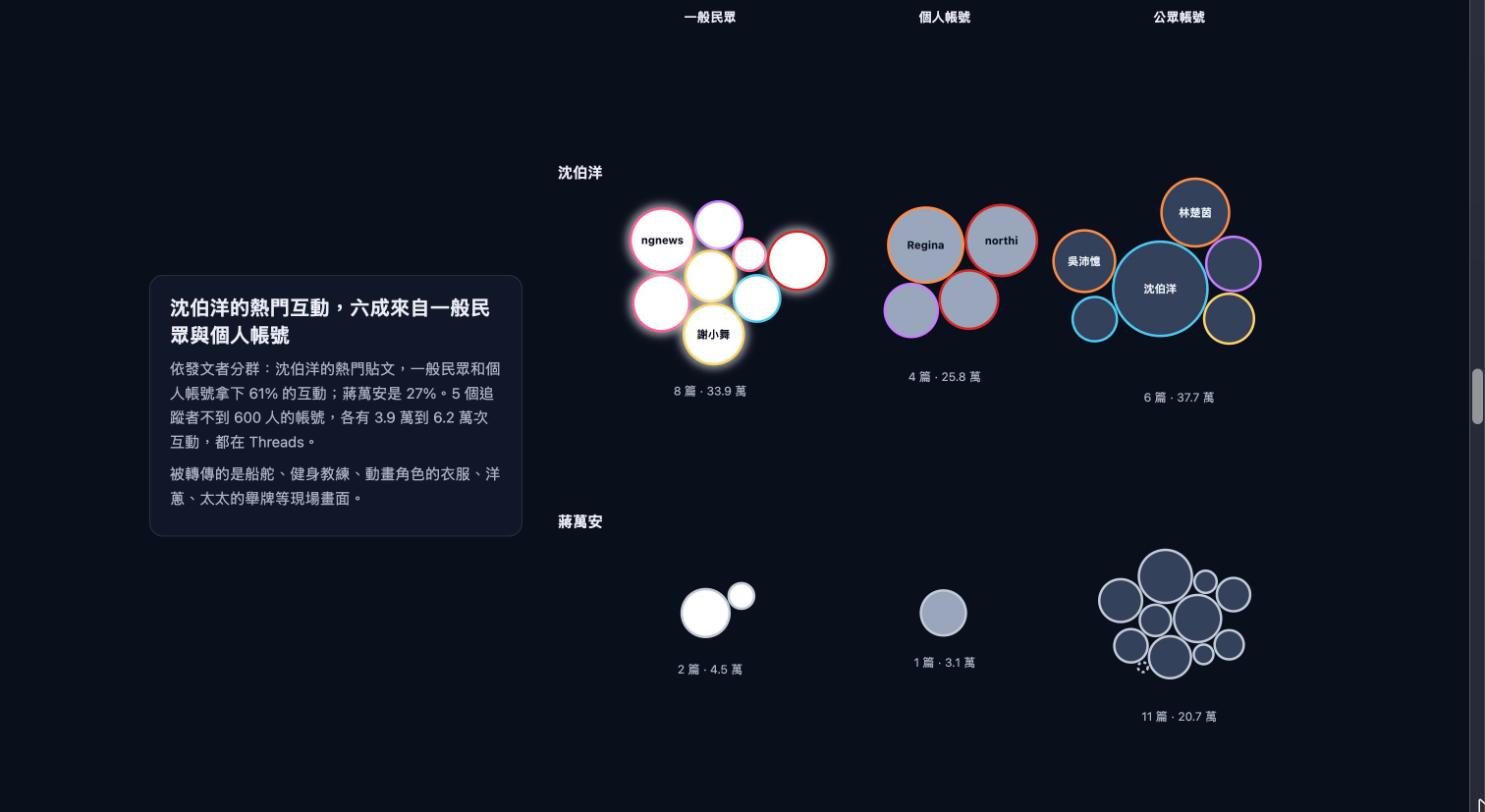
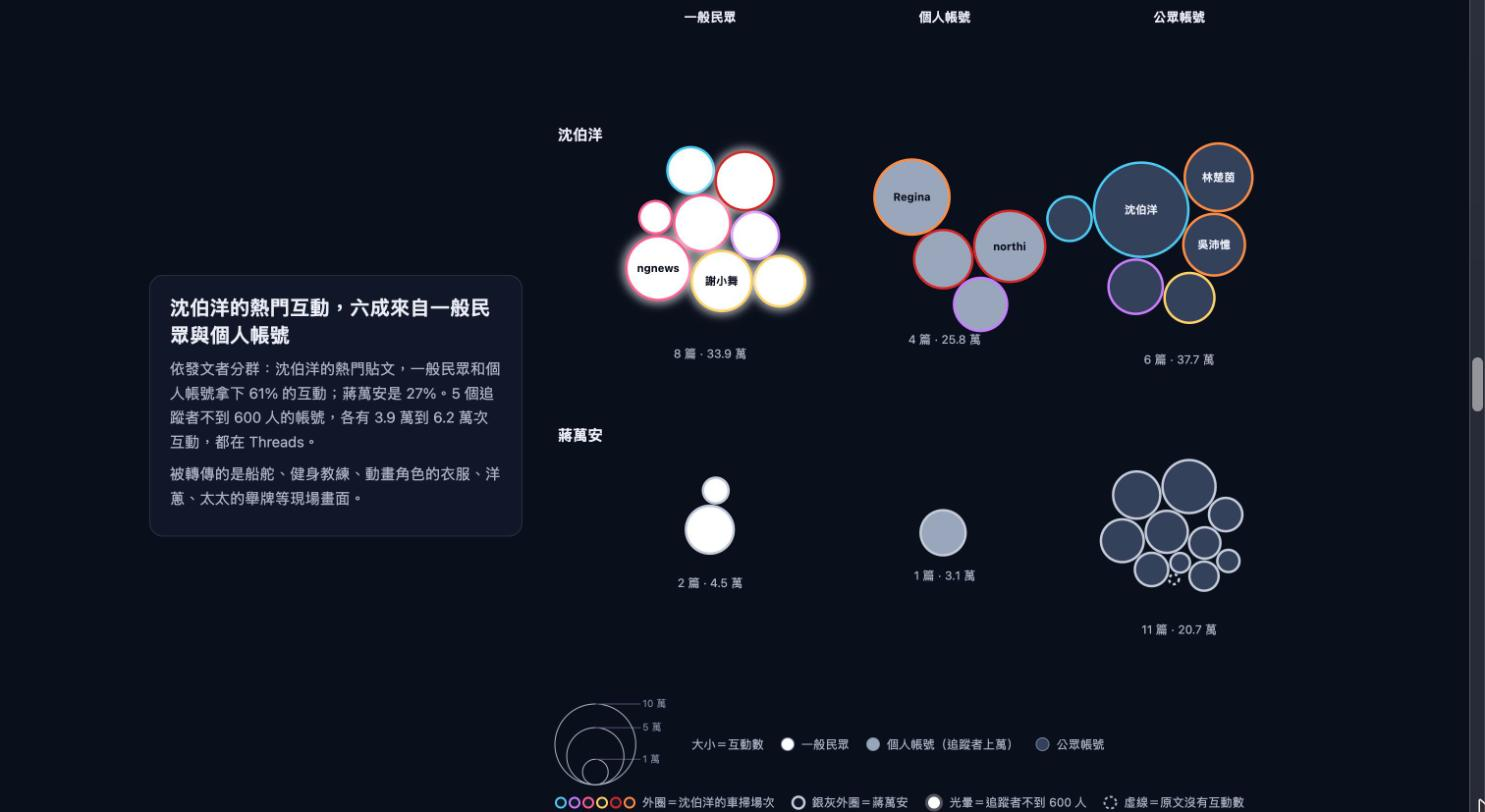
每張圖補上圖例
- 圖 1～5 在圖上方加圖例：顏色、大小、亮度、空心／實心、參考線各代表什麼
- 泡泡圖圖例用同一個比例尺畫 1 萬／5 萬／10 萬互動的大小基準
- 敘事地圖（第 1、7、8 段）與敘事泡泡圖在圖下方加圖例
- README 補說明，截圖 02～04 換成新版

diff --git a/js/common.js b/js/common.js
@@ -123,6 +123,54 @@
     }));
   }
 
+  // ---------- 圖例 ----------
+  // 每張圖都附圖例。items：{ type, color, label }；type 決定前面小圖示的畫法。
+  const SURFACE = '#111829';
+  const REF = '#77829a';
+  function swatchSvg(it) {
+    const c = it.color || '#ffffff';
+    const svg = (wd, ht, body) => `<svg width="${wd}" height="${ht}" viewBox="0 0 ${wd} ${ht}" aria-hidden="true">${body}</svg>`;
+    switch (it.type) {
+      case 'dot': return svg(14, 14, `<circle cx="7" cy="7" r="5" fill="${c}"/>`);
+      case 'hollow': return svg(14, 14, `<circle cx="7" cy="7" r="4.5" fill="${SURFACE}" stroke="${c}" stroke-width="2"/>`);
+      case 'fill': return svg(16, 16, `<circle cx="8" cy="8" r="6.5" fill="${c}" stroke="#77829a" stroke-width="1"/>`);
+      case 'ring': return svg(16, 16, `<circle cx="8" cy="8" r="6" fill="${SURFACE}" stroke="${c}" stroke-width="2.5"/>`);
+      case 'dashed-ring': return svg(16, 16, `<circle cx="8" cy="8" r="6" fill="none" stroke="${c}" stroke-width="2" stroke-dasharray="3 2.5"/>`);
+      case 'glow': return svg(20, 20, `<circle cx="10" cy="10" r="9" fill="#ffffff" opacity="0.28"/><circle cx="10" cy="10" r="6" fill="#ffffff"/>`);
+      case 'silver-dot': return svg(20, 20, `<circle cx="10" cy="10" r="9" fill="${c}" opacity="0.35"/><circle cx="10" cy="10" r="4.5" fill="${c}"/>`);
+      case 'line': return svg(22, 10, `<line x1="2" x2="20" y1="5" y2="5" stroke="${c}" stroke-width="3" stroke-linecap="round"/>`);
+      case 'ref': return svg(22, 10, `<line x1="1" x2="21" y1="5" y2="5" stroke="${REF}" stroke-width="1.5"/>`);
+      case 'vref': return svg(10, 16, `<line x1="5" x2="5" y1="1" y2="15" stroke="${REF}" stroke-width="1.5"/>`);
+      case 'outline': return svg(16, 16, `<rect x="2" y="2" width="12" height="12" rx="2" fill="none" stroke="#ffffff" stroke-width="2"/>`);
+      case 'dots': return svg(it.colors.length * 12, 12, it.colors.map((k, i) => `<circle cx="${i * 12 + 6}" cy="6" r="4.5" fill="${k}"/>`).join(''));
+      case 'rings': return svg(it.colors.length * 14, 14, it.colors.map((k, i) => `<circle cx="${i * 14 + 7}" cy="7" r="5" fill="${SURFACE}" stroke="${k}" stroke-width="2"/>`).join(''));
+      case 'gradient': return svg(40, 10, `<defs><linearGradient id="lg-grad-${it.id}"><stop offset="0" stop-color="${c}" stop-opacity="0.1"/><stop offset="1" stop-color="${c}" stop-opacity="0.95"/></linearGradient></defs><rect x="0" y="1" width="40" height="8" rx="2" fill="url(#lg-grad-${it.id})"/>`);
+      case 'swatches': return svg(it.colors.length * 12, 12, it.colors.map((k, i) => `<rect x="${i * 12}" y="1" width="10" height="10" rx="2" fill="${k}"/>`).join(''));
+      case 'lines': return svg(it.colors.length * 12 + 4, 10, it.colors.map((k, i) => `<line x1="${i * 12 + 2}" x2="${i * 12 + 12}" y1="5" y2="5" stroke="${k}" stroke-width="3" stroke-linecap="round"/>`).join(''));
+      default: return '';
+    }
+  }
+  function legend(target, items, { place = 'before', className = '' } = {}) {
+    const box = document.createElement('div');
+    box.className = `chart-legend ${className}`.trim();
+    fillLegend(box, items);
+    if (place === 'before') target.before(box);
+    else if (place === 'append') target.append(box);
+    else target.after(box);
+    return box;
+  }
+  function fillLegend(box, items) {
+    box.replaceChildren();
+    for (const it of items) {
+      const span = document.createElement('span');
+      span.className = 'lg-item';
+      if (it.html) span.innerHTML = it.html;
+      else span.innerHTML = swatchSvg(it);
+      span.append(document.createTextNode(it.label));
+      box.append(span);
+    }
+  }
+
   // ---------- 觸控判斷 ----------
   // 手指碰到時若馬上換掉畫面上的內容（提示框、預覽），手機瀏覽器會把這一下當成「滑過」而不觸發點擊，
   // 所以最近一次操作是觸控或觸控筆時，不顯示提示框、不做滑過預覽，點一下直接選取。
@@ -222,7 +270,7 @@
     AUTHOR_TYPES, authorTypeOf, authorInfo, ringColor,
     OFFSETS, decay, decayMax, pctAt,
     MAX_SHEN, MAX_CHIANG, shenGlow, shenGlowAll, chiangGlow, chiangGlowAll,
-    tipContent, placeTip, placeTipAt, hideTip, activateOnKey,
+    tipContent, placeTip, placeTipAt, hideTip, activateOnKey, legend, fillLegend, swatchSvg,
     state, active, registerView, setSession, setHover, prefersReducedMotion,
   };
 })();

diff --git a/js/bubbles.js b/js/bubbles.js
@@ -12,11 +12,20 @@
   H.createBubbles = function createBubbles(el, options) {
     const id = `bub${uid++}`;
     const o = {
-      grouping: 'map', height: null, name: 'bubbles', onPick: null, headline: null, interactive: true, linked: true,
+      grouping: 'map', height: null, name: 'bubbles', onPick: null, headline: null, interactive: true, linked: true, legend: null,
       ...options,
     };
     const wrap = d3.select(el).classed('bubbles-wrap', true);
     const svg = wrap.append('svg').attr('class', 'bubbles-svg').attr('role', 'img');
+    // 圖例：explore 放在圖上方；敘事舞台放在圖下方，並從可用高度扣掉圖例的高度。
+    let legendBox = null;
+    if (o.legend) {
+      legendBox = document.createElement('div');
+      legendBox.className = 'chart-legend';
+      if (o.legend === 'before') el.insertBefore(legendBox, svg.node());
+      else el.append(legendBox);
+    }
+    let rScale = null;
     const defs = svg.append('defs');
     defs.append('filter').attr('id', `${id}-halo`).attr('x', '-100%').attr('y', '-100%')
       .attr('width', '300%').attr('height', '300%')
@@ -91,13 +100,14 @@
 
     function size() {
       w = el.clientWidth;
-      h = o.height ? o.height(w) : el.clientHeight;
+      h = o.height ? o.height(w) : el.clientHeight - (legendBox && o.legend !== 'before' ? legendBox.offsetHeight + 4 : 0);
     }
 
     function radii() {
       const narrow = w < 600;
       const maxR = o.grouping === 'map' ? (narrow ? 22 : 34) : (narrow ? 26 : Math.min(48, w / 16));
       const scale = d3.scaleSqrt().domain([0, 136000]).range([0, maxR]);
+      rScale = scale;
       for (const d of nodes) d.r = d.post.interactions == null ? 5 : Math.max(5, scale(d.post.interactions));
     }
 
@@ -194,16 +204,47 @@
       o.headline.textContent = text;
     }
 
+    function drawLegend() {
+      if (!legendBox) return;
+      // 大小用和泡泡同一個比例尺，畫 1 萬、5 萬、10 萬次互動三個同心圓。
+      const vals = [10000, 50000, 100000];
+      const rs = vals.map((v) => rScale(v));
+      const big = rs[2];
+      const width = big * 2 + 52;
+      const height = big * 2 + 4;
+      const circles = vals.map((v, i) => {
+        const cy = height - 2 - rs[i];
+        const ty = height - 2 - rs[i] * 2;
+        return `<circle cx="${big + 1}" cy="${cy}" r="${rs[i]}" fill="none" stroke="#aab3c5" stroke-width="1"/>`
+          + `<line x1="${big + 1}" x2="${big * 2 + 6}" y1="${ty}" y2="${ty}" stroke="#4a5470" stroke-width="1"/>`
+          + `<text x="${big * 2 + 8}" y="${ty + 3}">${v / 10000} 萬</text>`;
+      }).join('');
+      const sizeSvg = `<svg class="lg-size" width="${width}" height="${height}" viewBox="0 0 ${width} ${height}" aria-hidden="true">${circles}</svg>`;
+      H.fillLegend(legendBox, [
+        { html: sizeSvg, label: '大小＝互動數' },
+        { type: 'fill', color: H.AUTHOR_TYPES[0].fill, label: '一般民眾' },
+        { type: 'fill', color: H.AUTHOR_TYPES[1].fill, label: '個人帳號（追蹤者上萬）' },
+        { type: 'fill', color: H.AUTHOR_TYPES[2].fill, label: '公眾帳號' },
+        { type: 'rings', colors: H.sessions.map((s) => s.color), label: '外圈＝沈伯洋的車掃場次' },
+        { type: 'ring', color: H.CHIANG_COLOR, label: '銀灰外圈＝蔣萬安' },
+        { type: 'glow', label: '光暈＝追蹤者不到 600 人' },
+        { type: 'dashed-ring', color: '#aab3c5', label: '虛線＝原文沒有互動數' },
+      ]);
+    }
+
     function ticked() {
       nodeSel.attr('transform', (d) => `translate(${d.x},${d.y})`);
     }
 
     function render({ burst = false } = {}) {
       size();
-      if (w < 200 || h < 200) return;
+      if (w < 200) return;
+      radii();
+      drawLegend();
+      size(); // 圖例畫好後高度才確定，敘事舞台要重新扣掉
+      if (h < 200) return;
       svg.attr('viewBox', `0 0 ${w} ${h}`).attr('width', w).attr('height', h)
         .attr('aria-label', '熱門貼文泡泡圖，每篇貼文一顆泡泡，大小代表互動數。');
-      radii();
       layout();
       headline();
       nodeSel.select('.bubble-halo').attr('r', (d) => d.r + 5);

diff --git a/js/story.js b/js/story.js
@@ -9,8 +9,21 @@
     name: 'story-map', interactive: false, controls: true, hud: true, allLit: true,
   });
   const bubbles = H.createBubbles(layerEl('bubbles'), {
-    name: 'story-bubbles', grouping: 'map', linked: false, interactive: true,
+    name: 'story-bubbles', grouping: 'map', linked: false, interactive: true, legend: 'after',
   });
+
+  // 地圖的圖例：放在地圖下方（播放時那裡是時間軸，所以播放段落改看左上角的亮度條）。
+  const sessionColors = H.sessions.map((s) => s.color);
+  const mapLegend = H.legend(layerEl('map'), [], { place: 'append', className: 'stage-legend' });
+  const LEGEND_SHEN = [
+    { type: 'swatches', colors: sessionColors, label: '顏色＝6 場車掃（每場兩區）' },
+    { type: 'gradient', id: 'story', color: '#ff8c42', label: `越亮＝那場車掃當天討論越多（最亮：11/15 士林×北投 ${H.fmt(H.MAX_SHEN)} 筆）` },
+  ];
+  const LEGEND_CHIANG = { type: 'silver-dot', color: H.CHIANG_COLOR, label: '銀灰光點＝蔣萬安掃街，越大越亮＝當天或隔天討論越多' };
+  function setMapLegend(items) {
+    H.fillLegend(mapLegend, items);
+    mapLegend.hidden = !items.length;
+  }
 
   // ---------- 對齊圖（敘事版） ----------
   const decayEl = layerEl('decay');
@@ -128,14 +141,14 @@
 
   // ---------- 段落設定 ----------
   const STEPS = [
-    () => { show('map'); map.pause(); map.set({ allLit: true, chiang: false, dimShen: false, labels: true }); hud(false); },
-    () => { show('map'); map.set({ allLit: false, chiang: false, dimShen: false, labels: true }); hud(true); map.play(true); },
+    () => { show('map'); map.pause(); map.set({ allLit: true, chiang: false, dimShen: false, labels: true }); hud(false); setMapLegend(LEGEND_SHEN); },
+    () => { show('map'); map.set({ allLit: false, chiang: false, dimShen: false, labels: true }); hud(true); setMapLegend([]); map.play(true); },
     () => { stopMap(); show('decay'); animateDecay(); },
     () => { stopMap(); show('lift'); animateLift(); },
     () => { stopMap(); show('bubbles'); if (bubbles.grouping !== 'map') bubbles.setGrouping('map'); bubbles.burst(); },
     () => { stopMap(); show('bubbles'); bubbles.setGrouping('type'); },
-    () => { show('map'); map.pause(); map.set({ allLit: true, allLitChiang: true, chiang: true, dimShen: true, labels: true }); hud(false); },
-    () => { show('map'); map.pause(); map.set({ allLit: true, allLitChiang: true, chiang: true, dimShen: false, labels: true }); hud(false); },
+    () => { show('map'); map.pause(); map.set({ allLit: true, allLitChiang: true, chiang: true, dimShen: true, labels: true }); hud(false); setMapLegend([LEGEND_CHIANG, { type: 'swatches', colors: sessionColors, label: '沈伯洋的場次先調暗' }]); },
+    () => { show('map'); map.pause(); map.set({ allLit: true, allLitChiang: true, chiang: true, dimShen: false, labels: true }); hud(false); setMapLegend([...LEGEND_SHEN, LEGEND_CHIANG]); },
   ];
   function show(name) {
     stage.querySelectorAll('[data-layer]').forEach((l) => l.classList.toggle('is-on', l.dataset.layer === name));

diff --git a/js/explore.js b/js/explore.js
@@ -90,7 +90,7 @@
   const bubbleHeadline = document.querySelector('.bubble-headline');
   const inspect = document.querySelector('.inspect');
   const bubbles = H.createBubbles(document.querySelector('[data-chart="bubbles"]'), {
-    name: 'bubbles', grouping: 'type', headline: bubbleHeadline,
+    name: 'bubbles', grouping: 'type', headline: bubbleHeadline, legend: 'before',
     height: (w) => (w < 600 ? 640 : 560),
     onPick: (post) => {
       if (post.candidate === 'shen' && post.date !== H.state.session) H.setSession(post.date);
@@ -516,6 +516,36 @@
     H.registerView(name, () => run(true));
     new ResizeObserver(() => run(false)).observe(elm);
   }
+
+  // ---------- 圖例 ----------
+  const sessionColors = H.sessions.map((s) => s.color);
+  H.legend(document.querySelector('[data-chart="map"]'), [
+    { type: 'swatches', colors: sessionColors, label: '區塊顏色＝6 場車掃（每場兩區）' },
+    { type: 'gradient', id: 'map', color: '#ff8c42', label: '越亮＝那天的掃街相關討論越多（左上角亮度條可對照筆數）' },
+    { type: 'outline', label: '白框＝選取中的場次' },
+    { type: 'silver-dot', color: H.CHIANG_COLOR, label: '銀灰光點＝蔣萬安掃街，越大越亮＝那天討論越多' },
+  ]);
+  H.legend(document.querySelector('[data-chart="overview"]'), [
+    { type: 'lines', colors: sessionColors, label: '線段顏色＝最近一場車掃' },
+    { type: 'line', color: MUTED, label: '灰色＝第一場車掃之前' },
+    { type: 'dots', colors: sessionColors, label: '圓點＝車掃當天' },
+    { type: 'vref', label: '直線＝10/31 首場電視辯論' },
+  ]);
+  H.legend(document.querySelector('[data-chart="decay-shen"]'), [
+    ...H.sessions.map((s) => ({ type: 'line', color: s.color, label: `${md(s.date)} ${s.name}` })),
+    { type: 'ref', label: '橫線＝100%（掃街當天）' },
+  ]);
+  H.legend(document.querySelector('[data-chart="decay-chiang"]'), [
+    { type: 'line', color: H.CHIANG_COLOR, label: '銀灰線＝蔣萬安各場（滑過或點線看是哪一場）' },
+    { type: 'ref', label: '橫線＝100%（掃街當天）' },
+  ]);
+  H.legend(document.querySelector('[data-chart="lift"]'), [
+    { type: 'hollow', color: '#e9edf5', label: '空心＝前 3 天平均' },
+    { type: 'dot', color: '#e9edf5', label: '實心＝車掃當天' },
+    { type: 'dots', colors: sessionColors, label: '顏色＝場次' },
+    { type: 'dot', color: MUTED, label: '灰色＝受辯論影響，不列入' },
+    { type: 'line', color: '#aab3c5', label: '線長＝倍數（對數刻度，每格 1.25 倍）' },
+  ]);
 
   buildChips();
   buildTables();

diff --git a/styles.css b/styles.css
@@ -98,6 +98,12 @@ html, body { margin: 0; background: #0a0f1c; }
 .spark-tick { font-size: 10px; fill: var(--text-muted); }
 .legend-marker { fill: #ffffff; }
 .legend-tick { stroke: var(--text-muted); stroke-width: 1; }
+.chart-legend { display: flex; flex-wrap: wrap; align-items: center; gap: 6px 16px; margin: 4px 0 10px; font-size: 12px; line-height: 1.4; color: var(--text-secondary); }
+.chart-legend .lg-item { display: inline-flex; align-items: center; gap: 6px; }
+.chart-legend svg { flex: none; overflow: visible; }
+.story-stage .stage-legend { position: absolute; left: 16px; right: 16px; bottom: 6px; margin: 0; pointer-events: none; }
+.chart-legend[hidden] { display: none; }
+.chart-legend .lg-size text { font-size: 10px; fill: var(--text-muted); }
 .map-controls { position: absolute; top: 12px; right: 12px; }
 .play-btn {
   color: var(--text-primary); background: rgba(23, 32, 54, 0.9); border: 1px solid var(--border);

diff --git a/README.md b/README.md
@@ -61,6 +61,7 @@
 **設計上的選擇**
 
 - 地圖要發光，整頁用深色。6 場車掃各一種顏色，地圖、總覽、對齊圖、倍數圖、泡泡外圈都用同一套，讀者靠顏色就能跨圖找到同一場。
+- 每張圖都附圖例，說明顏色、大小、亮度、空心／實心各代表什麼；地圖左上角另有亮度參考條，白色三角形標出目前這一天的筆數。
 - 兩位候選人都不用政黨色：沈伯洋 6 場各用一種場次色（避開綠色），蔣萬安用中性的銀灰（不用藍色），避免顏色本身帶出立場。
 - 泡泡的填色改用明暗（白、灰、深）表示發文者類型，不和場次顏色衝突；「一般民眾」最亮，呼應「素人也能衝出數萬互動」。
 - 兩位候選人的查詢會重疊（一篇同時提到兩人，兩邊都算），所以不把兩人的筆數畫在同一個刻度上比高低，只比各自的起伏。
